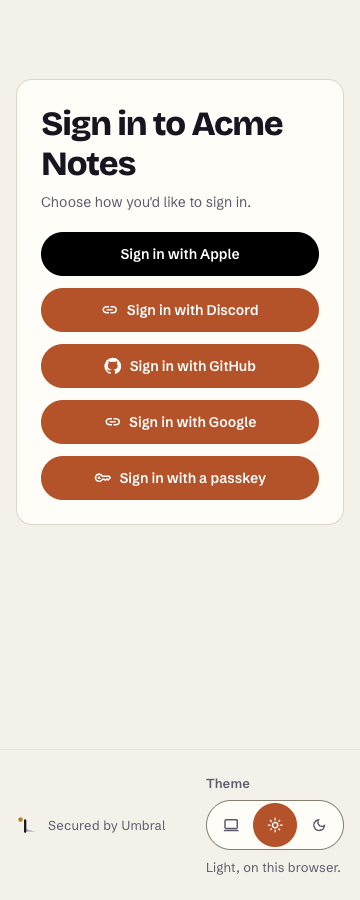
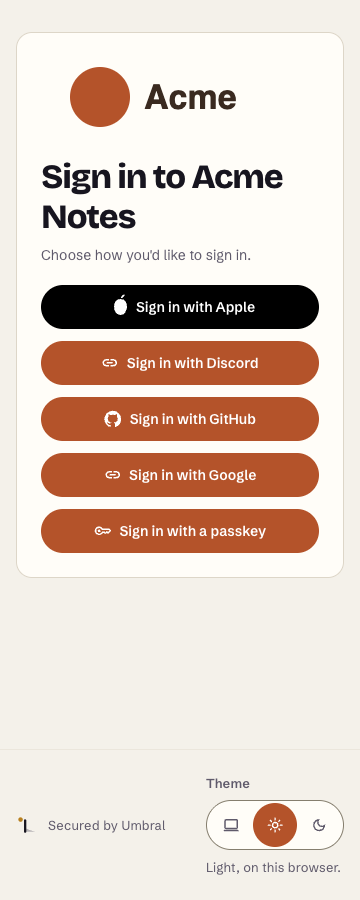
review(b6d7): part B notes, capture walk and captures

Changed region(s): [[0.0917, 0.0622, 0.8861, 0.6222]]

diff --git a/.alta/reviews/2026-11-11-provider-marks/notes.md b/.alta/reviews/2026-11-11-provider-marks/notes.md
@@ -62,3 +62,56 @@ Computed colours from the walk (label, then mark):
 | light | label `rgb(23,21,31)`, mark `rgb(0,0,0)` | `#fff` / `#fff` | mark = label |
 
 Every button is 318×44 at 1280 in both themes, with and without the accent.
+
+# Part B: Apple's logo, pasted by the operator
+
+The maintainer said yes on 2026-11-11 (spec FR-010 to FR-015). Commits `12ce8b7` (parser,
+schema 11, store) and `61a8ee6` (pane section, routes, picker slot, CSS, texts, docs).
+
+## What changed
+
+- `src/Umbral/Domains/AppleLogo.fs`: `parse` reads the paste with no DTD and walks it against
+  an allowlist (`svg`, `g`, `path`, `rect`, `title`, `desc`, empty `defs`; no `on…`, no `href`,
+  no `style` with `url(`; depth 16, 64 paths, 32 KiB); keeps the `viewBox` (or the root's
+  `width` and `height` when there is none) and each path's `d`, `fill-rule` and numeric
+  `transform`; `render` rebuilds the SVG from those values alone. `rect` (the file's
+  background), titles, ids and colours are dropped.
+- Schema version 11: `connectors.apple_logo`. `ConnectorStore.appleLogo` parses the stored text
+  again on every read.
+- `Components.appleLogoSlot`: the only place a logo reaches a page, from a parsed value.
+- The Apple pane's **Sign-in button logo** section (contract answer 3), its own form,
+  `POST /admin/connectors/apple/logo` and `/admin/connectors/apple/logo/remove`, each recording
+  `connector_updated` with `apple-logo=saved|removed`. A blank paste with a logo saved keeps it
+  (no notice, no event); with none saved it is the not-an-SVG refusal.
+- CSS: `.um-apple-logo > svg` is 2.75rem tall (the button's 44px), width by proportion;
+  `.um-btn-apple` has `gap: 0`.
+- New strings: exactly the contract's (Texts.fs, `AppleLogo*`), notices `apple-logo-saved`,
+  `apple-logo-removed`.
+- `docs/connectors/apple.md`: step 4 "Add Apple's logo to the button" with the refusal table;
+  both missing-logo warnings now point to it. `changelog.d/014-provider-marks.md`: Added,
+  Changed, Upgrade (schema 11).
+
+## Tests
+
+`AppleLogoTests` (35: accepted layouts, round trip, every refusal, hostile fixtures, storage),
+`AppleLogoAdminTests` (14), `AppleButtonTests` (+2: a stored logo in the slot; a hostile text
+written straight into the column never reaches the page), `DatabaseTests` (10 to 11).
+Full suite without IdleMemoryTests: 2144 of 2144 (Debug), after the last change.
+
+## Captures
+
+`capture-b.mjs`, same server setup as part A (Release, `http://localhost:18093`, Chrome).
+**The logo pasted is a stand-in**, a made-up rounded shape in Apple's file layout (a 31×44 box
+with the mark centred in its own padding, a background `rect`, a `title`), because Apple's
+artwork may not be committed. Judge the proportions with that in mind: Apple's real file may
+sit a little differently.
+
+- `apple-pane-no-logo`, `apple-logo-refused` (a `<script>` paste: 422, the marker text is not
+  in the page), `apple-pane-logo` (preview, Replace, Remove): 1280 and 360, both themes.
+- `picker-apple-no-logo`: Apple without a logo, before the paste.
+- `picker`, `picker-accent` (now with the app's logo), `picker-last-used` (Apple last used):
+  1280 and 360, both themes. These replace part A's captures of the same names (part A's are
+  in `b329dbe`).
+- `picker-focus-1280-dark`: focus on the Apple button with its logo.
+- No state overflows at 360. Every button is 318×44; the Apple logo is 31×44, the other marks
+  18×18.
